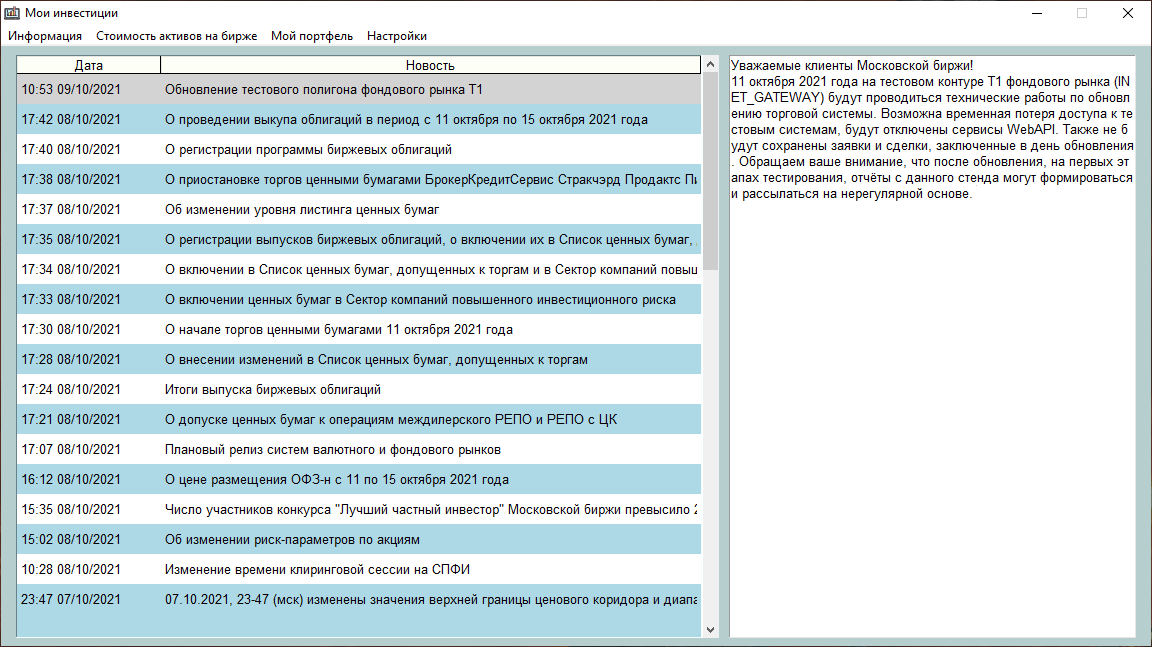
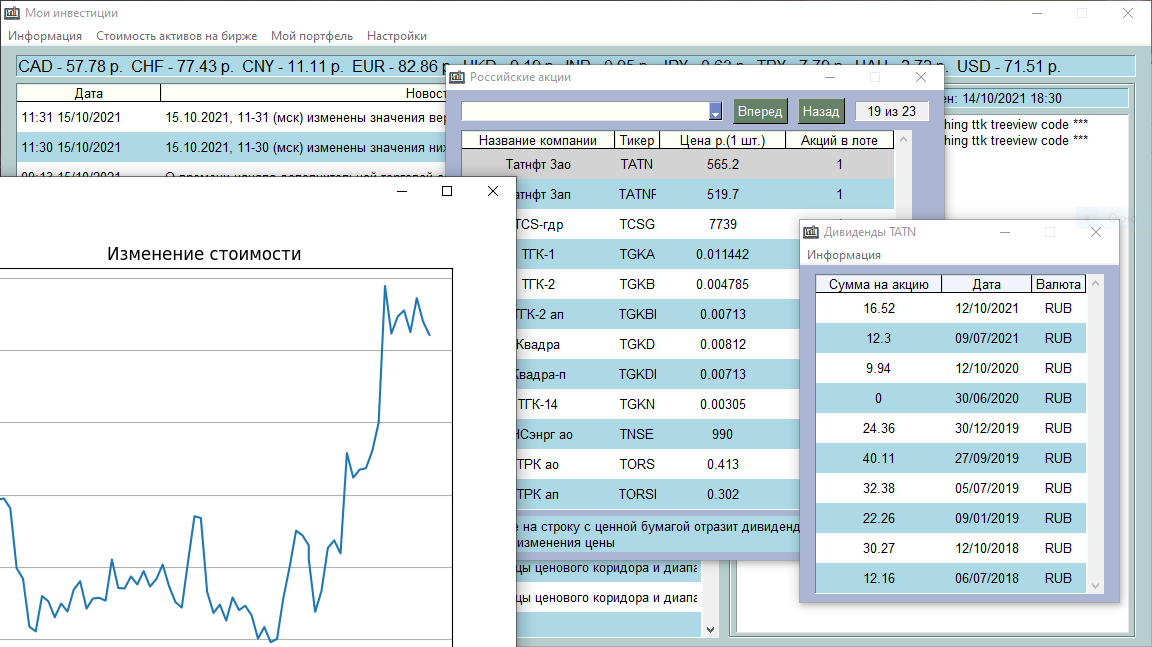
add NKD, indicative rates

diff --git a/GUI.py b/GUI.py
@@ -19,7 +19,10 @@ def main_wind():
                                    '&Операции по счету', '&График ввода ДС']],
                 ['&Настройки', ['&Автозагрузка файлов']]]
     news_list = api_mcx.Handler.get_list_news()
+    str_date, str_value = api_mcx.Handler.get_securities_rates()
     layout = [[sg.Menu(menu_def, tearoff=False)],
+              [sg.Input(size=(160, 1), key='out_value', readonly=True, justification='left', font=("Any", 12),
+                        default_text=str_value, disabled_readonly_background_color='lightblue')],
               [sg.Table(values=news_list, headings=['Дата', 'Новость'], def_col_width=12, max_col_width=60,
                         background_color='lightblue',
                         text_color='Black',
@@ -32,8 +35,8 @@ def main_wind():
                         enable_events=True,
                         row_height=30),
                sg.Frame('', [
-                   [sg.Input(size=(60, 1), key='out_price', readonly=True, justification='center',
-                             default_text=api_mcx.Handler.get_securities_rates(),
+                   [sg.Input(size=(60, 1), key='out_date', readonly=True, justification='center',
+                             default_text=str_date,
                              disabled_readonly_background_color='lightblue')],
                    [sg.Output(size=(60, 35), key='out', background_color='white')]
                ]
@@ -50,7 +53,9 @@ def main_wind():
 
 
 def func_menu(event, window, values, news_list):
-    window['out_price'].update(api_mcx.Handler.get_securities_rates())
+    str_date, str_value = api_mcx.Handler.get_securities_rates()
+    window['out_date'].update(str_date)
+    window['out_value'].update(str_value)
     window['out'].update("")
     if event == '-TABLE_NEWS-':
         id_news = news_list[values['-TABLE_NEWS-'][0]][2]
@@ -114,20 +119,19 @@ def wind_table(list_data, list_columns, info):
                   justification='centre', num_rows=12, alternating_row_color='white',
                   key='-TABLE_RU-', enable_events=True, selected_row_colors=('Black', 'lightgray'), row_height=30,
                   tooltip=info)],
-    [sg.Text('*Нажатие на строку с ценной бумагой отразит дивидендную доходность\n и историю изменения цены',
+    [sg.Text('*Нажатие на строку с ценной бумагой отразит дивидендную доходность и\nисторию изменения цены',
              background_color="lightblue")]]
     sg.theme('BlueMono')
     new_win = sg.Window(info, layout, return_keyboard_events=True)
     while True:
         event, values = new_win.read()
-
         if event == '-TABLE_RU-':
             index = (index_page - 1) * 12 + (values['-TABLE_RU-'][0])
             tiker = list_data[index][1]
             if info == "Российские акции":
                 wind_dividends(api_mcx.Handler.get_dividends(tiker), tiker, list_data[index][0])
             if info == "Облигации":
-                wind_nkd(api_mcx.Handler.get_nkd(list_data[index][0]), tiker)
+                wind_nkd(list_data[index][0], tiker)
         if event == '-back-' and index_page < page_count:
             index_page += 1
             new_win['-out-'].update(str(index_page) + ' из ' + str(page_count))
@@ -140,6 +144,15 @@ def wind_table(list_data, list_columns, info):
             list_dates = search(list_data, values['-search-'], info)
             new_win['-search-'].update(values=list_dates)
             new_win['-search-'].Widget.event_generate('<Down>')
+        if event == '-search-' and values['-search-'] != "":
+            str_mas = values['-search-'].split(' ')
+            if info.find('Облигации') == -1:
+                index = search_index(str_mas[0], list_data, info)
+            else:
+                index = search_index(str_mas[len(str_mas)-1], list_data, info)
+            index_page = int(index / 12) + 1
+            new_win['-out-'].update(str(index_page) + ' из ' + str(page_count))
+            new_win['-TABLE_RU-'].update(list_data[(index_page - 1) * 12:index_page * 12])
         if event in (sg.WIN_CLOSED, 'Quit'):
             break
     new_win.close()
@@ -380,10 +393,11 @@ def wind_dividends(list_dividends, tiker, company):
 
 
 # Окно с выводом нкд по облигации
-def wind_nkd(list, tiker):
-    list_headers = ['НКД на сегодня', 'Дата следующей выплаты', 'НКД на дату выплаты']
+def wind_nkd(id_tiker, tiker):
+    list_all_nkd = api_mcx.Handler.get_all_nkd(id_tiker)
+    list_headers = ['Дата выплаты', 'НКД р.', 'Доход в % за год']
 
-    layout = [[sg.Table(values=list, headings=list_headers, def_col_width=20, max_col_width=40,
+    layout = [[sg.Table(values=list_all_nkd, headings=list_headers, def_col_width=20, max_col_width=40,
                         background_color='lightblue', text_color='Black',
                         auto_size_columns=True, justification='centre', num_rows=10, alternating_row_color='white',
                         key='-TABLE_NKD-', selected_row_colors=('Black', 'lightgray'), row_height=30)]

diff --git a/api_mcx/Handler.py b/api_mcx/Handler.py
@@ -73,7 +73,7 @@ def get_stocks_15m_ago(name_country):
 
 # Обаботать облигации
 def get_bonds():
-    list_columns = ['Название облигации', 'Компания', 'Цена %', 'Доход %', 'Выплата по бумаге']
+    list_columns = ['Название облигации', 'Компания', 'Цена %', 'НКД сейчас', 'Доход %', 'Выплата по бумаге']
     info_bonds = None
     bonds_price = get_bonds_api()
 
@@ -85,7 +85,7 @@ def get_bonds():
         for bonds in info_bonds['securities']['data']:
             if bonds[2] is not None:
                 str_time = datetime.strptime(bonds[3], '%Y-%m-%d').strftime('%d/%m/%Y')
-                dict[bonds[0]] = [bonds[1], 0, bonds[2], str_time]
+                dict[bonds[0]] = [bonds[1], 0, bonds[4], bonds[2], str_time]
     else:
         dict = assets.bonds
 
@@ -97,7 +97,7 @@ def get_bonds():
 
     list_data = []
     for k, v in dict.items():
-        list_data.append([k, v[0], v[1], v[2], v[3]])
+        list_data.append([k, v[0], v[1], v[2], v[3], v[4]])
 
     assets.bonds = dict
     return list_data, list_columns, "Облигации"
@@ -123,12 +123,18 @@ def get_pies():
     return list_data, list_columns, "Фонды"
 
 
-# Курсы ЦБРФ
+# Курсы валют
 def get_securities_rates():
     data = get_cbrf_api()
-    information = str(round(data['cbrf']['data'][0][3], 2)) + "р. - 1 USD\t"
-    information += str(round(data['cbrf']['data'][0][6], 2)) + "р. - 1 EUR"
-    return information
+    str_date = "Валютный курс обнавлен: " + \
+               datetime.strptime(data['securities']['data'][0][0], '%Y-%m-%d').strftime('%d/%m/%Y')
+    mas = data['securities']['data'][0][1].split(':')
+    str_date += " " + mas[0] + ":" + mas[1]
+    str_value = ""
+    for el in data['securities']['data']:
+        if el[2].find('RUB') > -1:
+           str_value += el[2].split('/RUB')[0] + " - " + str(round(el[3], 2)) + " р.  "
+    return str_date, str_value
 
 
 # Обработать запрос на дивиденды по тикеру
@@ -145,12 +151,14 @@ def get_dividends(tiker):
     return list_dividends
 
 
-# Обработать запрос по НКД
-def get_nkd(tiker):
-    response = get_nkd_api(tiker)
+# Обработать запрос по будующим выплатам НКД
+def get_all_nkd(tiker):
+    response = get_all_nkd_api(tiker)
     list = []
-    list.append(response['securities']['data'][0])
-    list[0][1] = datetime.strptime(list[0][1], '%Y-%m-%d').strftime('%d/%m/%Y')
+    for el in response['coupons']['data']:
+        el[0] = datetime.strptime(el[0], '%Y-%m-%d').strftime('%d/%m/%Y')
+        list.append([el[0], el[1], el[2]])
+    list.reverse()
     return list
 
 

diff --git a/Binding.py b/Binding.py
@@ -232,7 +232,7 @@ def for_stocks(list_data, str_search):
     list_stocks = []
     for el in list_data:
         if el[0].find(str_search) > -1 or el[1].find(str_search) > -1:
-            s = el[0] + " " + el[1] + " " + str(el[2]) + "р. " + str(el[3]) + "шт. в лоте"
+            s = el[1] + " " + el[0] + " " + str(el[2]) + "р. " + str(el[3]) + "шт. в лоте"
             list_stocks.append(s)
     return list_stocks
 
@@ -241,7 +241,7 @@ def for_bonds(list_data, str_search):
     list_bonds = []
     for el in list_data:
         if el[0].find(str_search) > -1 or el[1].find(str_search) > -1:
-            s = el[1] + " " + str(el[2]) + "%цена " + str(el[3]) + "%доход"
+            s = el[1] + " " + str(el[2]) + "%цена " + str(el[3]) + "%доход " + el[0]
             list_bonds.append(s)
     return list_bonds
 
@@ -324,9 +324,26 @@ def report_invest():
 def create_history_graph(list_data, list_price, text_header):
     plt.gcf().canvas.set_window_title(text_header)
     plt.plot(list_data, list_price)
-    plt.title('Пополнение счета')
+    plt.title('Изменение стоимости')
     plt.ylabel('Цена р.')
     plt.xlabel('Дата')
     plt.xticks(rotation=90)
     plt.grid(axis='y')
     plt.show()
+
+
+# поиск индекса бумаги в списке
+def search_index(name, list_data, info):
+    if info.find('акции') > -1:
+        for i in range(0, len(list_data)):
+            if list_data[i][1].find(name) == 0:
+                return i
+    if info.find('Фонды') > -1:
+        for i in range(0, len(list_data)):
+            if list_data[i][0].find(name) == 0:
+                return i
+    if info.find('Облигации') > -1:
+        for i in range(0, len(list_data)):
+            if list_data[i][0].find(name) == 0:
+                return i
+    return 0

diff --git a/tools/Bonds.py b/tools/Bonds.py
@@ -11,7 +11,7 @@ def parsing_bonds_portfolio(doc):
     if len(assets.bonds) == 0:
         api_mcx.Handler.get_bonds()
     list_header = ['###', 'Наименование', 'Компания', 'Цена сейчас р.',  'Ср. цена', 'Изм. инвест. р.',
-                   'Инвестировано', 'Количество', 'Доход %', 'Продано(шт.)', 'Продажа(р.)', '1 Бонд(р.)']
+                   'Инвестировано', 'Количество', 'Доход %', 'НКД сейчас', 'Продано(шт.)', 'Продажа(р.)', '1 Бонд(р.)']
     portfolio_bonds = {}
     for element in reversed(doc.values):
         if element[5] == 'Облигация':
@@ -36,6 +36,7 @@ def parsing_bonds_portfolio(doc):
             if element_dict['sold_count'] > 0:
                 element_dict['price_sold'] = round(element_dict['sold'] / element_dict['sold_count'], 2)
             element_dict['price_now'] = get_price(element_dict['name']) * 1000 / 100
+            element_dict['nkd_now'] = get_nkd_now(element_dict['name'])
             element_dict['middle_price'] = round(element_dict['invest'] / element_dict['count'], 3)
             element_dict['change_invest'] = get_dif(element_dict['price_now'],
                                                     element_dict['count'], element_dict['invest'])
@@ -94,3 +95,10 @@ def get_dif(price, count, total):
         return ""
     else:
         return round(price * count - total, 2)
+
+
+def get_nkd_now(tiker):
+    nkd_now = assets.bonds.get(tiker)
+    if nkd_now is not None:
+        return nkd_now[2]
+    return ""

diff --git a/api_mcx/API_response.py b/api_mcx/API_response.py
@@ -66,7 +66,7 @@ def get_name_bonds_api():
     api_result = requests.get(
         "https://iss.moex.com/iss/engines/stock/markets/bonds/boardgroups/58/securities.json?"
         "iss.dp=comma&iss.meta=off&iss.only=securities&securities.columns=SECID,SHORTNAME,"
-        "COUPONPERCENT,NEXTCOUPON")
+        "COUPONPERCENT,NEXTCOUPON,ACCRUEDINT")
     api_response = api_result.json()
     return api_response
 
@@ -92,7 +92,7 @@ def get_name_pie_api():
 # Получить курсы ЦБРФ
 def get_cbrf_api():
     api_result = requests.get(
-        "https://iss.moex.com/iss/statistics/engines/currency/markets/selt/rates.json?iss.meta=off")
+        "https://iss.moex.com/iss/statistics/engines/futures/markets/indicativerates/securities.json?iss.meta=off")
     api_response = api_result.json()
     return api_response
 
@@ -106,11 +106,11 @@ def get_dividends_api(tiker):
     return api_response
 
 
-# Получить НКД
-def get_nkd_api(tiker):
+# Получить выплаты по облигации
+def get_all_nkd_api(tiker):
     api_result = requests.get(
-        "https://iss.moex.com/iss/engines/stock/markets/bonds/boards/TQCB/securities/" + tiker + ".json?"
-        "iss.meta=off&iss.only=securities&securities.columns=ACCRUEDINT,NEXTCOUPON,COUPONVALUE")
+        "https://iss.moex.com/iss/statistics/engines/stock/markets/bonds/bondization/" + tiker + "/amortizations.json?"
+        "iss.meta=off&coupons.columns=coupondate,value,valueprc")
     api_response = api_result.json()
     return api_response
 

diff --git a/tools/StructRep.py b/tools/StructRep.py
@@ -22,7 +22,7 @@ dict_stocks = {
 }
 """
     ###, Наименование, Компания, Цена сейчас,  Ср. цена, Изм. инвест. р., Количество, Инвестировано, 
-    Доход %, Продано(шт.), Продажа(р.), 1 Бонд(р.)
+    Доход %, НКД сейчас, Продано(шт.), Продажа(р.), 1 Бонд(р.)
 """
 dict_bonds = {
 
@@ -35,6 +35,7 @@ dict_bonds = {
     'invest': 0,
     'count': 0,
     'income': 0,
+    'nkd_now': 0,
     'sold_count': 0,
     'sold': 0,
     'price_sold': 0
